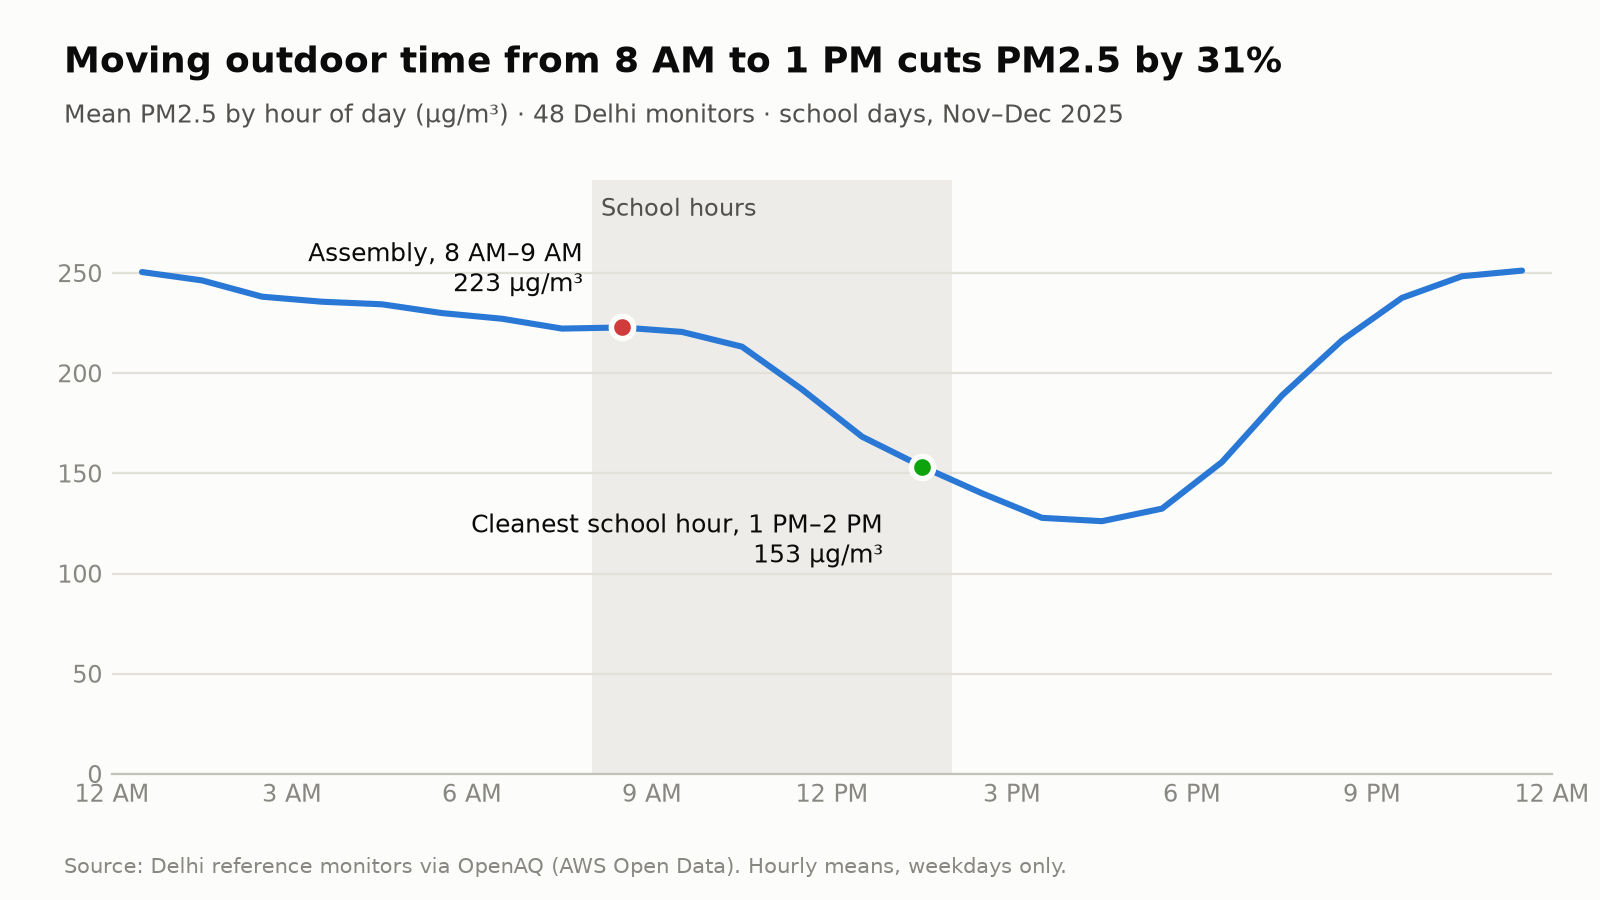
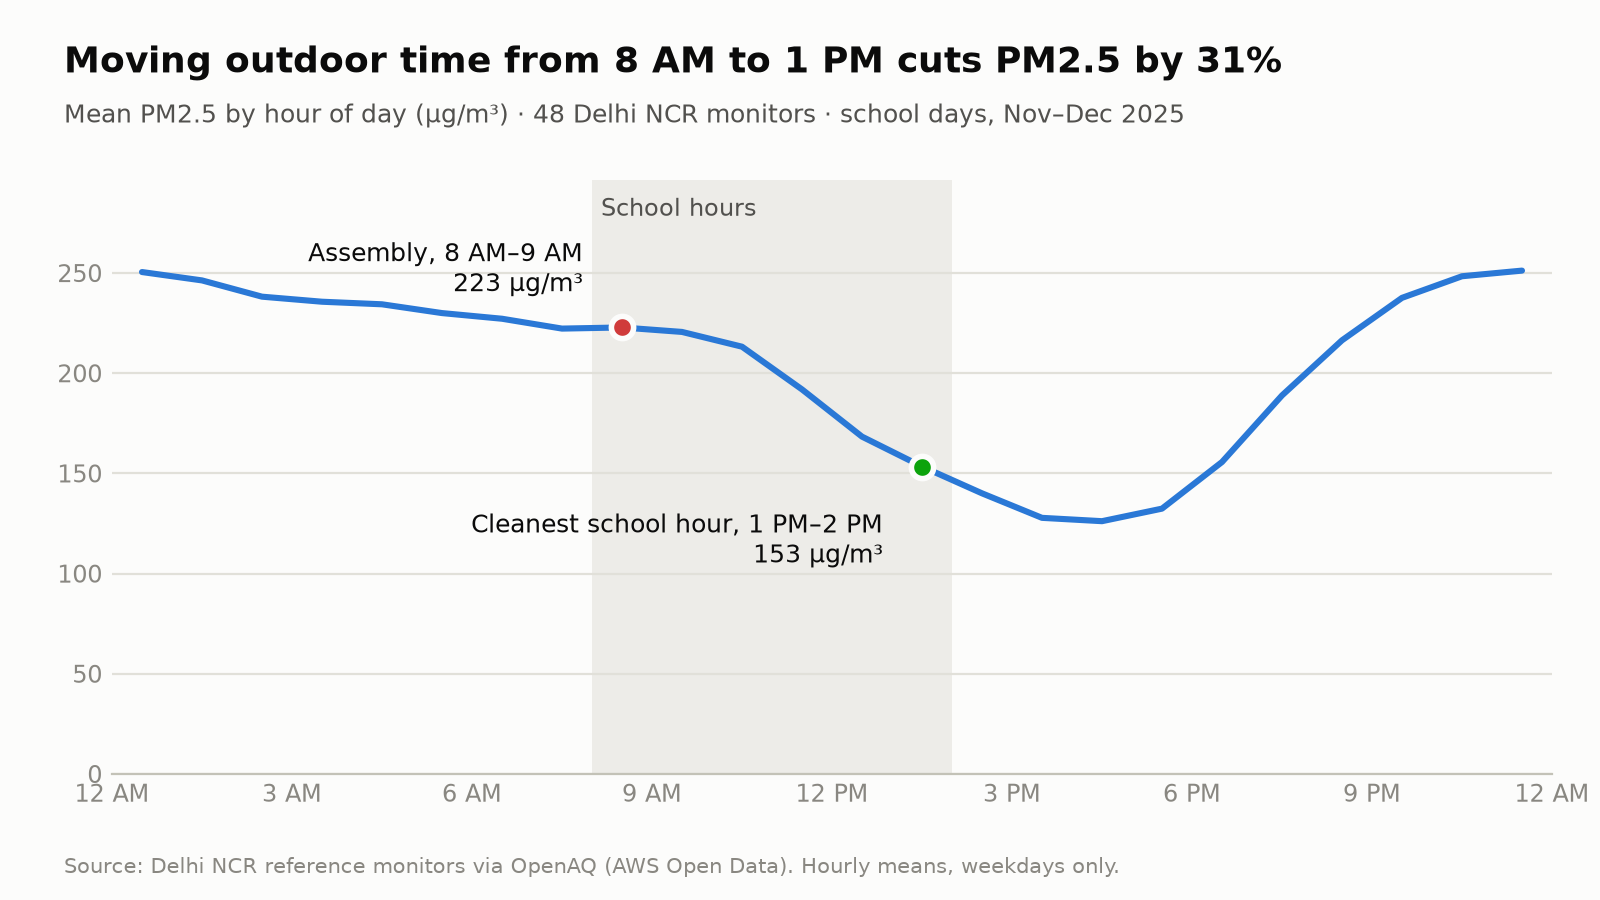
analysis: label the monitoring data Delhi NCR

Changed region(s): [[0.25, 0.9333, 0.6562, 0.9956], [0.4062, 0.0933, 0.75, 0.1556], [0.125, 0.9333, 0.2188, 0.9644]]

diff --git a/src/clearhour/hook_chart.py b/src/clearhour/hook_chart.py
@@ -83,7 +83,7 @@ def draw(profile: pd.Series, nums: dict, n_stations: int, period: str, out: Path
     fig.text(
         0.04,
         0.885,
-        f"Mean PM2.5 by hour of day (µg/m³) · {n_stations} Delhi monitors · school days, {period}",
+        f"Mean PM2.5 by hour of day (µg/m³) · {n_stations} Delhi NCR monitors · school days, {period}",
         fontsize=9,
         color=INK_2,
         va="top",
@@ -91,7 +91,7 @@ def draw(profile: pd.Series, nums: dict, n_stations: int, period: str, out: Path
     fig.text(
         0.04,
         0.03,
-        "Source: Delhi reference monitors via OpenAQ (AWS Open Data). Hourly means, weekdays only.",
+        "Source: Delhi NCR reference monitors via OpenAQ (AWS Open Data). Hourly means, weekdays only.",
         fontsize=7.5,
         color=MUTED,
     )

diff --git a/docs/DECISIONS.md b/docs/DECISIONS.md
@@ -12,3 +12,4 @@
 - 2026-10-08: hook_chart puts the cleanest-hour label below-left of its marker: on the real Nov-Dec 2025 profile the evening rise ran through it (layout only).
 - 2026-10-08: T6 day-level stats take every weekday station-day with all six school hours, with no station coverage filter (48 stations, 1,541 station-days).
 - 2026-10-08: T6 item 3: 8118 has 11:00 IST readings on only 2 days of Nov-Dec 2023, so its 2023 cleanest hour is taken over the other five school hours (the cut is a lower bound); hook_stat.json records it.
+- 2026-10-08: The monitoring data is labelled "Delhi NCR" (7 of the 48 stations in the 2025 profile are in Gurugram, Noida, Ghaziabad and Bahadurgarh; GRAP school orders cover those districts too). Schools stay "Delhi schools".

diff --git a/CLAUDE.md b/CLAUDE.md
@@ -121,6 +121,8 @@ never double-sends.
 - Every script ends with a one-screen summary: counts, date range, gaps, files written.
 - Scripts are re-runnable: cache downloads, skip work already done.
 - Commit messages are imperative and scoped, e.g. `data: pull OpenAQ archive for Delhi monitors`.
+- Naming: the monitoring data is "Delhi NCR" (the stations include Gurugram, Noida, Ghaziabad and Bahadurgarh,
+  all under the GRAP school orders) in the chart, README and video. The school layer stays "Delhi schools".
 
 ## Commands
 
